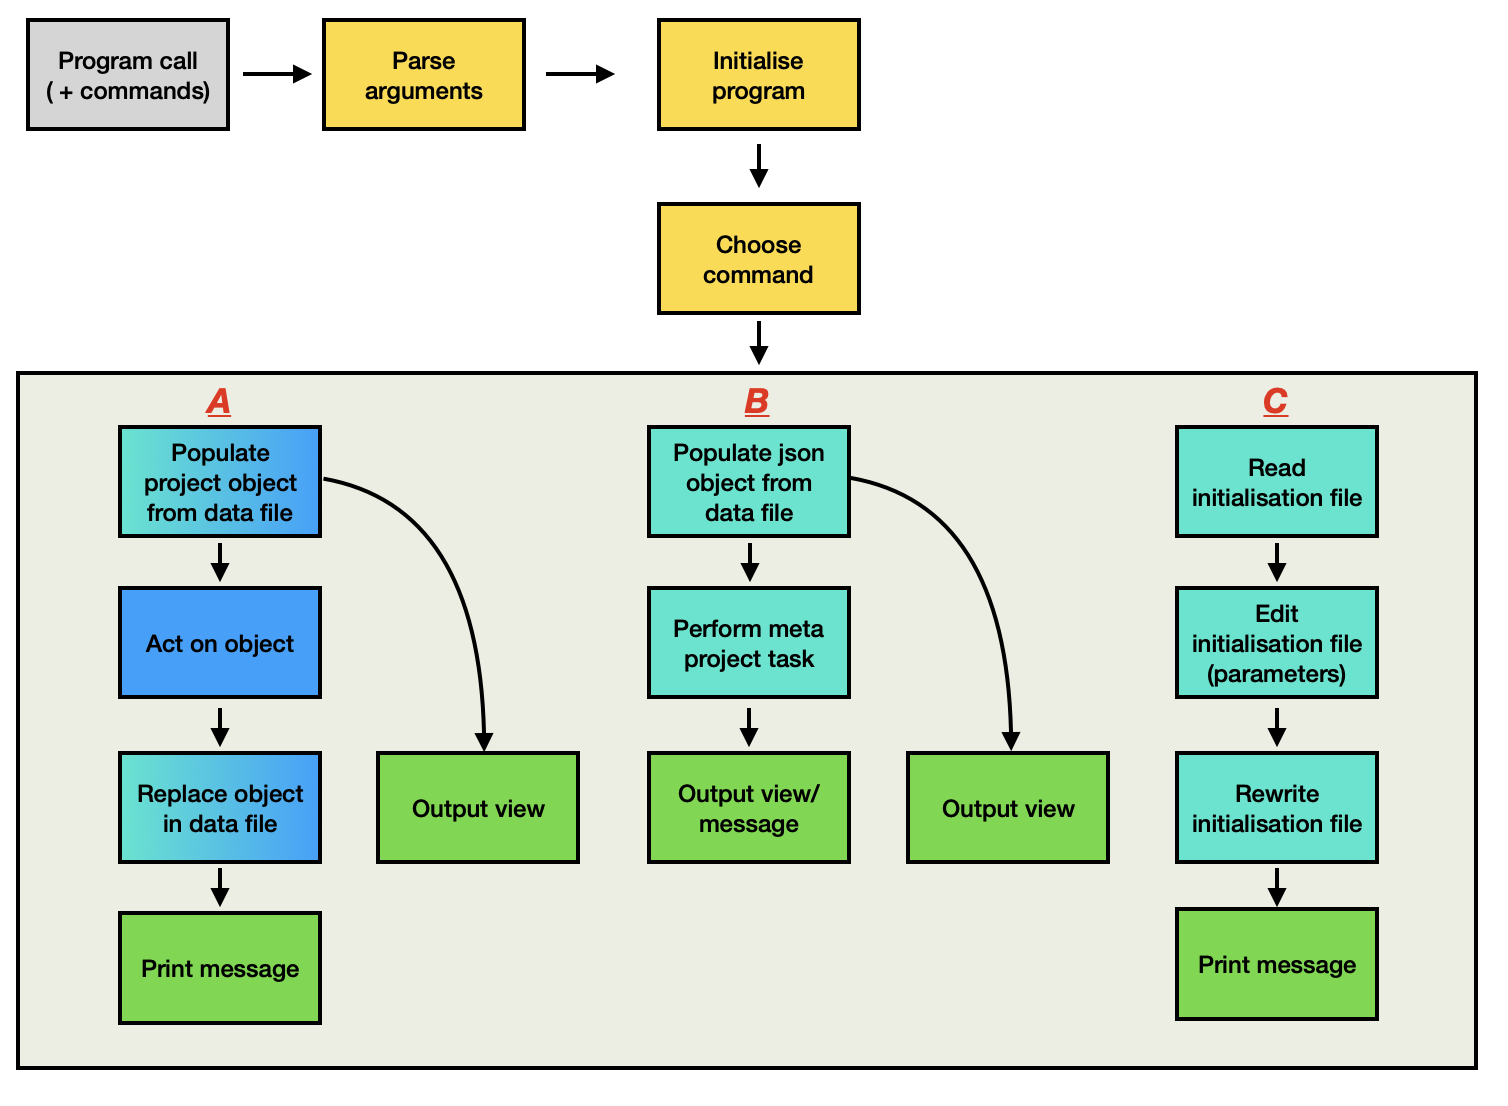
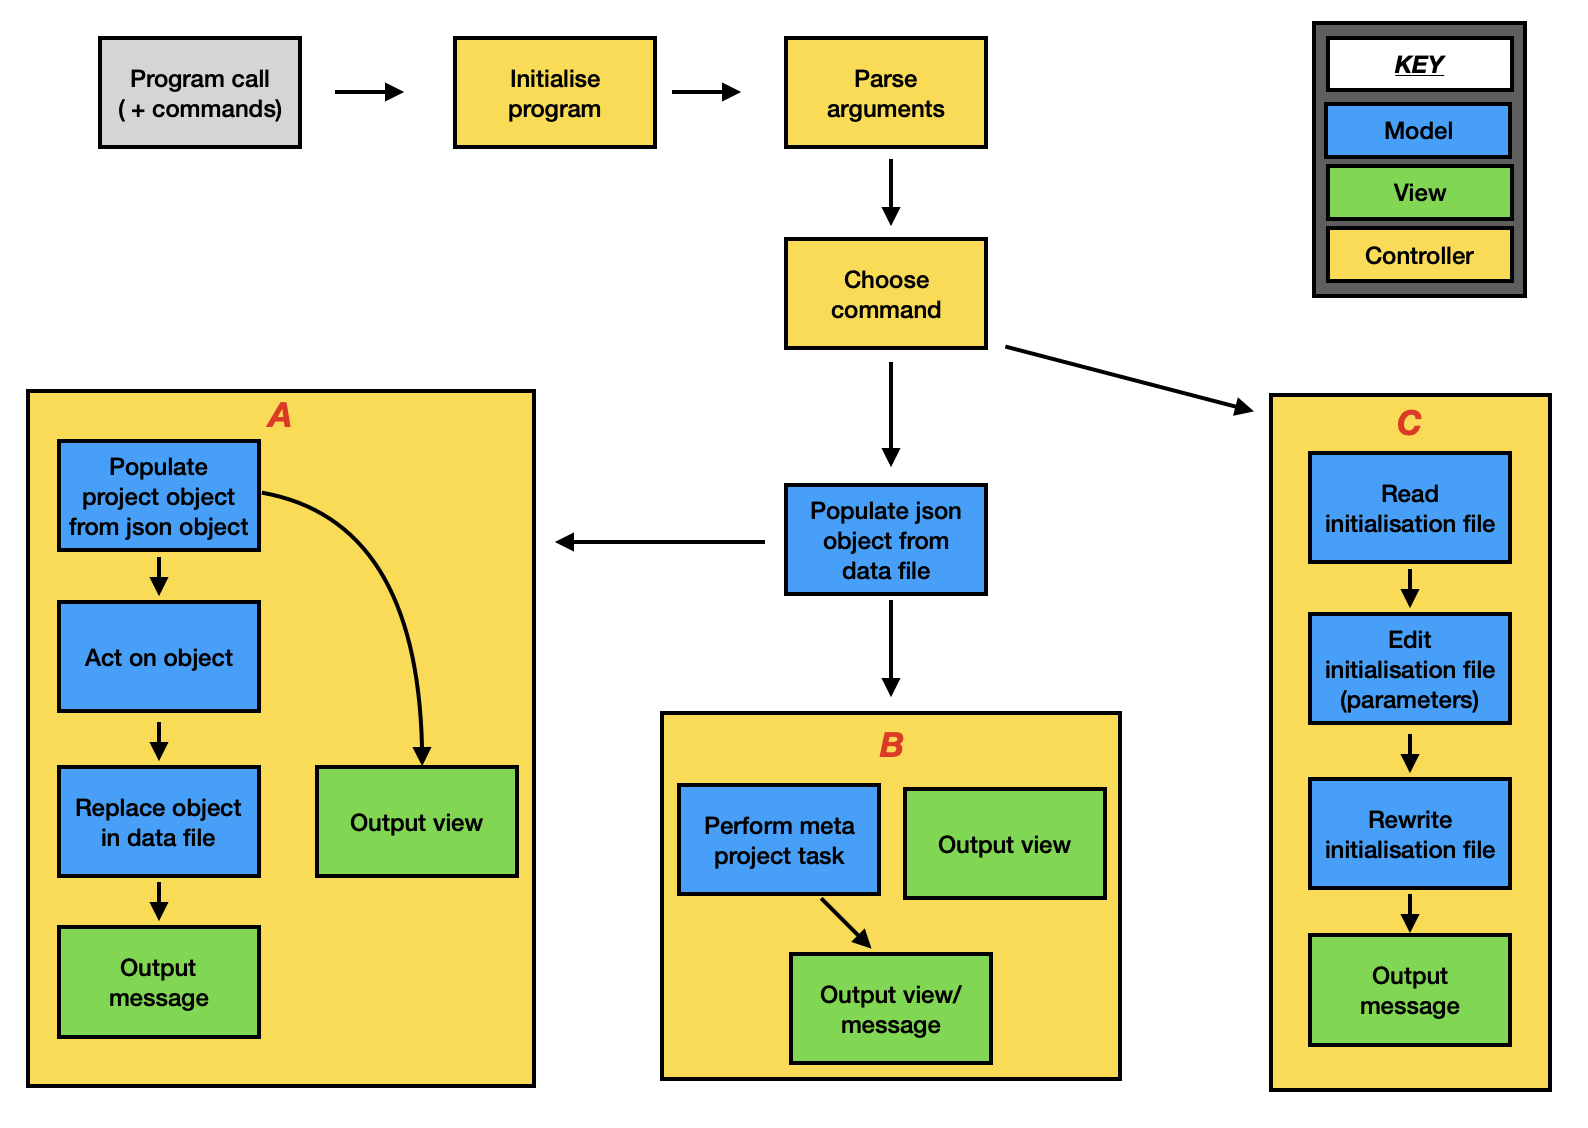
updated the design docs

diff --git a/docs/design/architectureDesign.md b/docs/design/architectureDesign.md
@@ -1,37 +1,91 @@
-# Software Architecture Design
-This project is built on the MVC architecture pattern. I chose this because it would help unit-testing, maintenance and future extensions. It also just makes sense for this type of application.
+# Software Design
+This document outlines the design of Projecto. The tense of the document varies at the moment due to writing up some parts of the design before and some parts after the code has been implemented. Once the release is finalised, this will be made consistent.
 
-## Model
+## Table of contents
+---
+- [User stories](#user-stories)
+- [Design pattern](#design-pattern)
+    - [Model + Data](#model-+-data)
+    - [View](#view)
+    - [Controller](#controller)
+---
+## User stories
+Projecto aims to help manage hobby coding projects. Since I am designing this for personal use, the user stories will center around my need cases for now.
+
+- I want to have an overview of my project that can show its tasks and a log of actions so that I can easily keep track of my coding exploits.
+- I want to be able to quickly add, edit, delete and view tasks and quickly add, delete and view log entries (I feel that editing log entries serves no purpose for my envisioned use).
+- I want to be able to store multiple projects and access them in such a manner that calling Projecto shows a specific project unless the focused project is changed (i.e., everytime projecto is called, it shows the same project it showed last time unless told otherwise) so that calling projecto is not unecessarily burdensome.
+- I want the terminal output to be aesthetically pleasing so that I enjoy using the tool.
+- I want to be able to easily extend the properties of tasks and log entries in the codebase in the future if so desired.
+
+## Design pattern
+Projecto is based on the MVC architectural design pattern. The *flavour* of MVC followed can be seen in the diagram below. The controller deals with user commands and then communicates with both the view and model appropriately. This decouples the view entirely from the model, making the system more robust and flexible. 
+
+
+<center>
+
+![](../../assets/MVC%20Diagram.png)
+
+</center>
+
+### Model + Data
 A project needs to be able to have tasks and log entries (with the last log entry functioning as a **"last action"**). The model will therefore have project objects that act as containers of tasks and log entries.
 
 To reduce the coupling of the project object to its aggregated objects, when editing one of them that corresponds to that project, it will be done by replacing the entire object. This way the project object does not care what the objects are, only that they exist.
 
 Communication with the project object is therefore based entirely around adding, deleting, replacing or returning the tasks and log entries it stores. To get information about the specific aggregated objects, the objects own methods (getters) will be used.
 
-![](../../assets/modelUmlDiagram.png)
+The data will be stored in JSON format with the help of the [Nlohmann JSON](https://github.com/nlohmann/json) library. This library could have been used to construct the model too, but I chose to use a separate implementation in case I changed the data storage method in future.
 
-## View
+There is a single simple data handling object `jsonDataInterface`. The principle of operation is that this object will load the data from the storage file, this data will be manipulated by the program and then rewritten to the data file using a `writeData()` method. This class is strongly coupled to the `Project` class as it can generate `Project` objects from JSON data. Changes to the `Project` class will necessarily require changes to this method in `jsonDataInterface`.
+
+<center>
+
+***Model + Data Class Diagram***
+
+![](../../assets/projectoModelClassDiagram.png)
+
+</center>
+
+### View
 There needs to be the following views in the project:
 
 - All project overview: list of project names + the number of tasks for each project
 - Individual project overview: list of project tasks and the last action of the project (the last log entry)
 - Individual log view: view a single log entry
 - Individual task view: full text of a task
+- Full task view: full task text + completed tasks
 - Full log view: view the entire log of the project
 - Messages printed to the terminal after the success/failure of a command input
 
-The view will be restricted to a max width of 80 characters per line (to match the 80 character/line code readability guide). ANSI sequences will be used for text formatting - this restricts the program to working only on terminals that support these sequences, in future I may shift to using a library such as [CPP Terminal](https://github.com/jupyter-xeus/cpp-terminal), but for now the terminals I will be using have full support for ANSI sequences.
+The view will be restricted to a max width of 80 characters per line (to match the 80 character/line code readability guide). ANSI sequences will be used for text formatting - this restricts the program to working only on terminals that support these sequences.
 
-> Note:
->
-> The colour formatting could be made optional depending on whether the terminal supports it I think, I have seen something like this in the [Taskwarrior](https://github.com/GothenburgBitFactory/taskwarrior) source code.
+<center>
 
-The view will not interface directly with the model, but will take vector/string/int inputs and display them. The controller will be responsible for passing this data to the view when calling it.
+***Projecto View Class Diagram***
 
-## Controller
-The controller will take user inputs and transform them into model and view commands. Controller code will contain the instructions for the model and view. Separate controller code will also be responsible for parsing command line arguments.
+![](../../assets/projectoViewClassDiagram.png)
 
-## Data Storage
-The data will be stored in JSON format with the help of the [Nlohmann JSON](https://github.com/nlohmann/json) library. This library could have been used to construct the model too, but I chose to use a separate implementation in case I changed the data storage method in future.
+</center>
 
-There is a single simple data handling object `jsonData`. The principle of operation is that this object will load the data from the storage file, this data will be manipulated by the program and then rewritten to the data file using a `writeData()` method.
+### Controller
+The controller will take user inputs and transform them into model and view commands. Parsing and verification of user inputs will be done separately.
+
+The commands of Projecto can be split into three categories which follow similar steps:
+
+<center>
+
+***Group A Commands Class Diagram***
+
+![](../../assets/projectoCmdAClassDiagram.png)
+
+***Group B Commands Class Diagram***
+
+![](../../assets/projectoCmdBClassDiagram.png)
+
+***Group C Commands Class Diagram***
+
+<img src="../../assets/projectoCmdCClassDiagram.png" height=400>
+
+</center>
+

diff --git a/docs/design/programFlow.md b/docs/design/programFlow.md
@@ -11,7 +11,7 @@
 - Yellow boxes: controller
 - Blue box: model 
 - Teal boxes: data
-- Blue/teal boxes: model
+- Blue/teal boxes: model + data
 - Green boxes: view
 
 > Note:
@@ -22,10 +22,20 @@
 ## Elaboration
 When projecto is called, there are three common first steps.
 1. Parsing the command line arguments, separating the command name and its modifiers
+    - Identifying the command from `argv[1]` by comparing it to a list of possible commands
+        - If the command has no matches, output error message: command unrecognised
+    - Copying `argv[2+]` into a vector of strings
 2. Initialising the program (setting the focused project and data file path)
+    - Reading the initialisation file and setting the appropriate variable values
 3. Choosing the appropriate command
+    - Passing the command and the parameters to a command chooser which creates the appropriate command object
+    - Command object verifies the parameter syntax
+        - If the paramater syntax is incorrect, output error message
+    - Execute the command.
 
 There are then three groupings of command type, A, B and C. These are grouped because they have similar steps to follow.
+
+
 
 **Group A**:
 The commands in this group are:
@@ -40,7 +50,7 @@ The commands in this group are:
 **Group B**:
 The commands in this group are:
 - Adding a new project
-- Deleting an existing projectxs
+- Deleting an existing project
 - Changing the name of an existing project
 - Viewing all projects overview
 

diff --git a/docs/design/userStories.md b/docs/design/userStories.md
@@ -2,7 +2,7 @@
 Projecto is aimed at helping manage hobby coding projects. Since I am designing this for personal use, the user stories will center around my need cases for now.
 
 - I want to have an overview of my project that can show its tasks and a log of actions so that I can easily keep track of my coding exploits.
-- I want to be able to quickly add, edit and delete tasks and quickly add and view log entries.
+- I want to be able to quickly add, edit and delete tasks and quickly add, view and delete log entries.
 - I want to be able to store multiple projects and access them in such a manner that calling Projecto shows a specific project unless the focused project is changed (i.e., everytime projecto is called, it shows the same project it showed last time unless told otherwise) so that calling projecto is not unecessarily burdensome.
 - I want the terminal output to be aesthetically pleasing so that I enjoy using the tool.
 - I want to be able to easily extend the properties of tasks and log entries in the codebase in the future if so desired.
